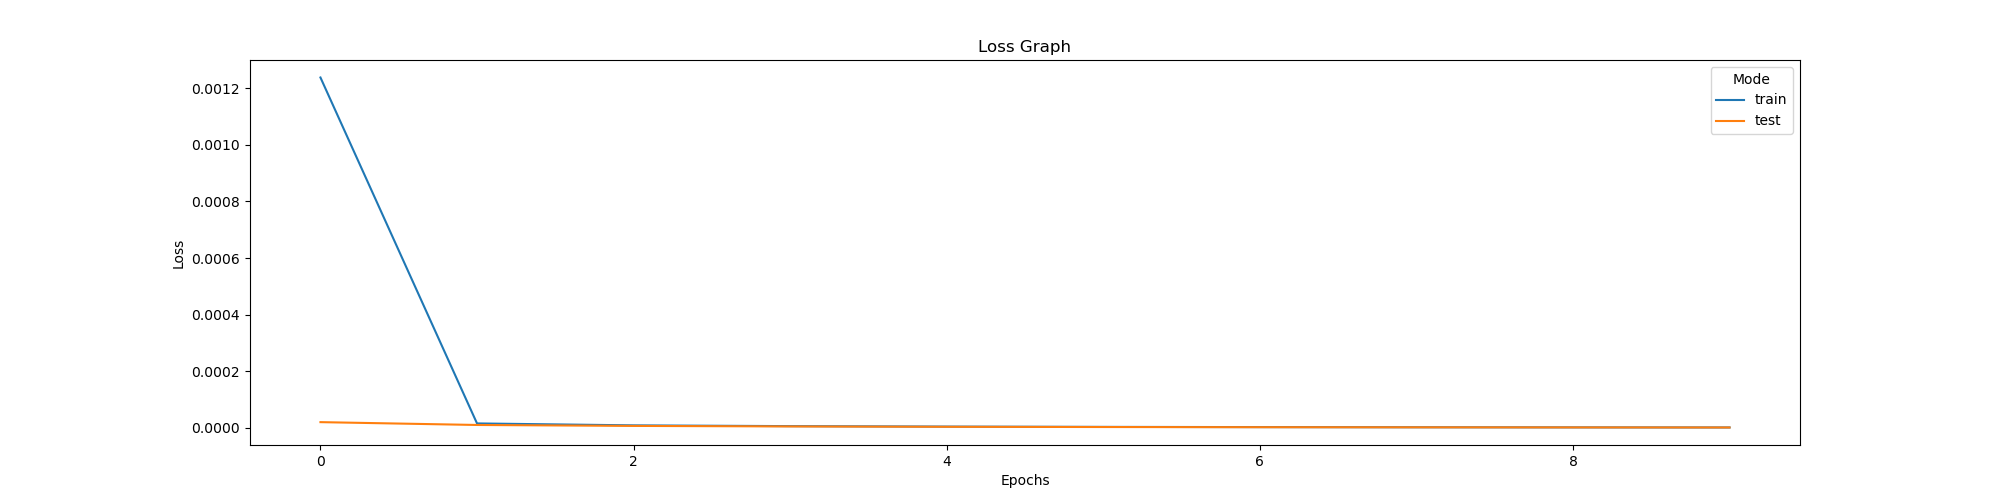
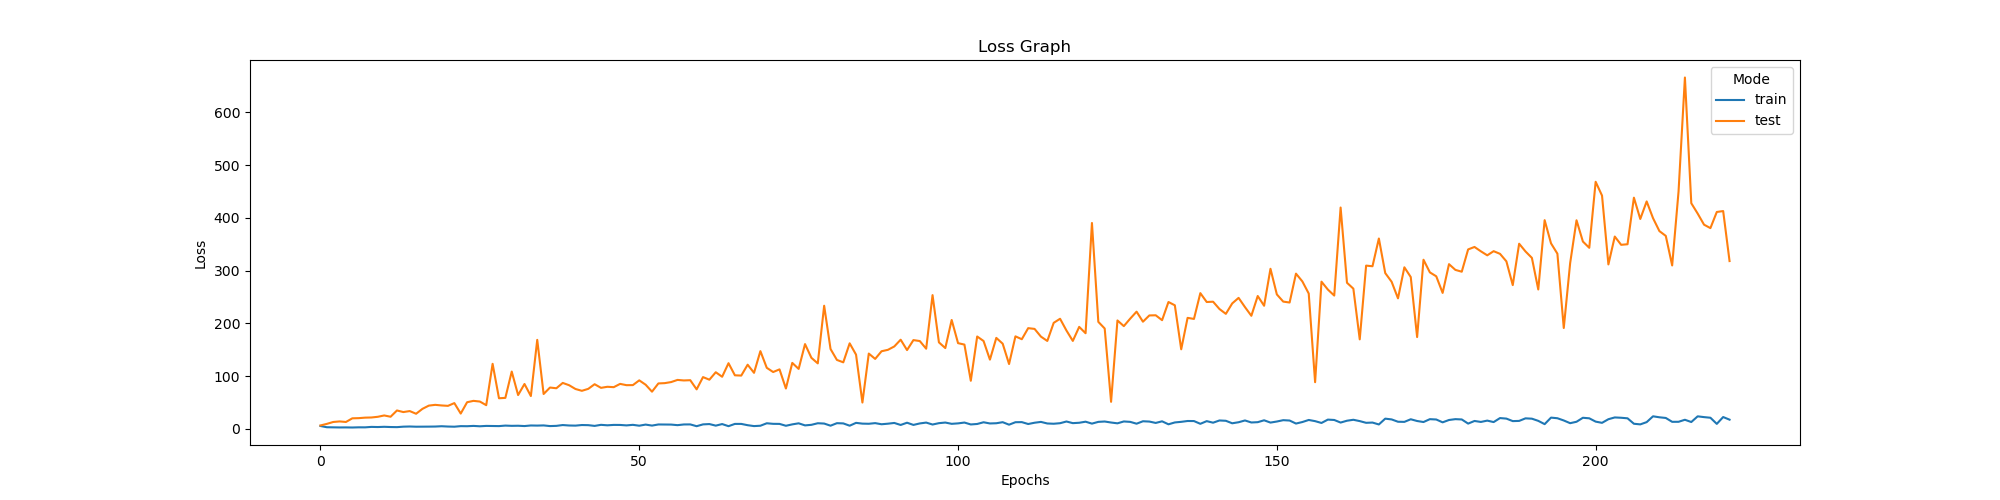
update codes to test learning

diff --git a/train.py b/train.py
@@ -65,7 +65,6 @@ def main():
         for idx, data in enumerate(TRAIN_DATALOADER):
 
             train_X, train_Y = data['images'].to(DEVICE), data['labels'].to(DEVICE)
-
             OPTIMIZER.zero_grad() #clear the optimizer.
 
             train_predictions = MODEL(train_X)
@@ -82,12 +81,12 @@ def main():
 
         total_train_epoch_accuracy.append(train_epoch_accuracy)
         total_train_epoch_loss.append(train_epoch_loss)
-        print(f"Epoch {epoch_idx} :\nTraining Accuracy: {train_epoch_accuracy}\nTraining Loss: {train_epoch_loss}\n\n")
+        print(f"Epoch {epoch_idx} :\nTraining Accuracy: {train_epoch_accuracy}\nTraining Loss: {train_epoch_loss}\n")
 
         test_epoch_accuracy = 0
         test_epoch_loss = 0
 
-        with torch.no_grad():
+        with torch.set_grad_enabled(False):
             for idx, data in enumerate(TEST_DATALOADER):
 
                 test_X,test_Y = data['images'].to(DEVICE), data['labels'].to(DEVICE)
@@ -117,6 +116,7 @@ def main():
         #save the model with the best test accuracy.
         if test_epoch_accuracy > best_accuracy:
             torch.save(MODEL, f"{cfg.MODEL_SAVE_FOLDER}model.pth")
+            best_accuracy = test_epoch_accuracy
 
 
 

diff --git a/cfg.py b/cfg.py
@@ -7,7 +7,7 @@ MODEL_SAVE_FOLDER='./artifacts/'
 GRAPH_SAVE_FOLDER='./graphs/'
 
 #DATASET CONFIGURATIONS
-BATCH_SIZE=2
+BATCH_SIZE=5
 IMAGE_WIDTH=224
 IMAGE_HEIGHT=224
 IMAGE_CHANNEL=1
@@ -25,8 +25,8 @@ FEEDFORWARD_PROJECTION_DIM=1024
 FEEDFORWARD_DROPOUT_PROB=0
 
 #TRAINING CONFIGURATIONS
-TRAIN_EPOCH=100
-LEARNING_RATE=0.001
+TRAIN_EPOCH=1000
+LEARNING_RATE=0.005
 SCHEDULER_GAMMA=0.7
 SCHEDULER_STEP_SIZE=1
 
